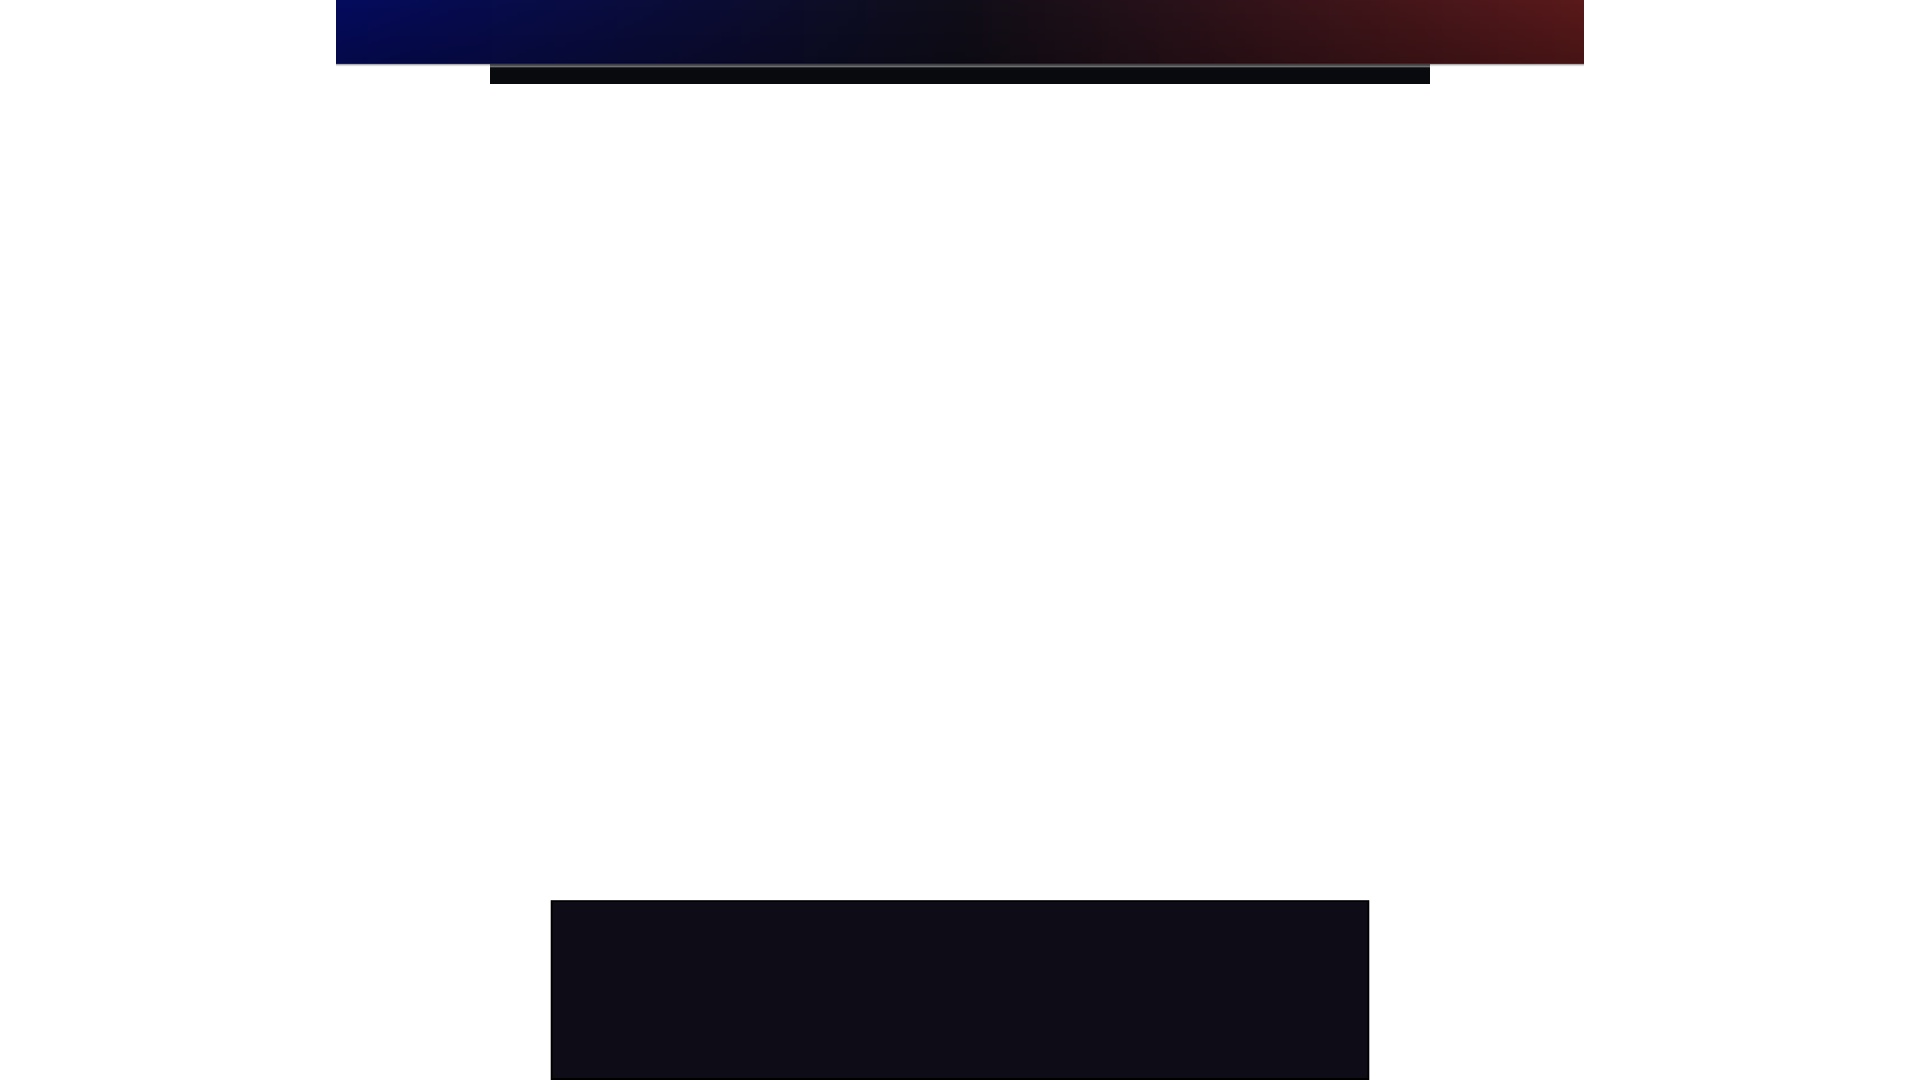
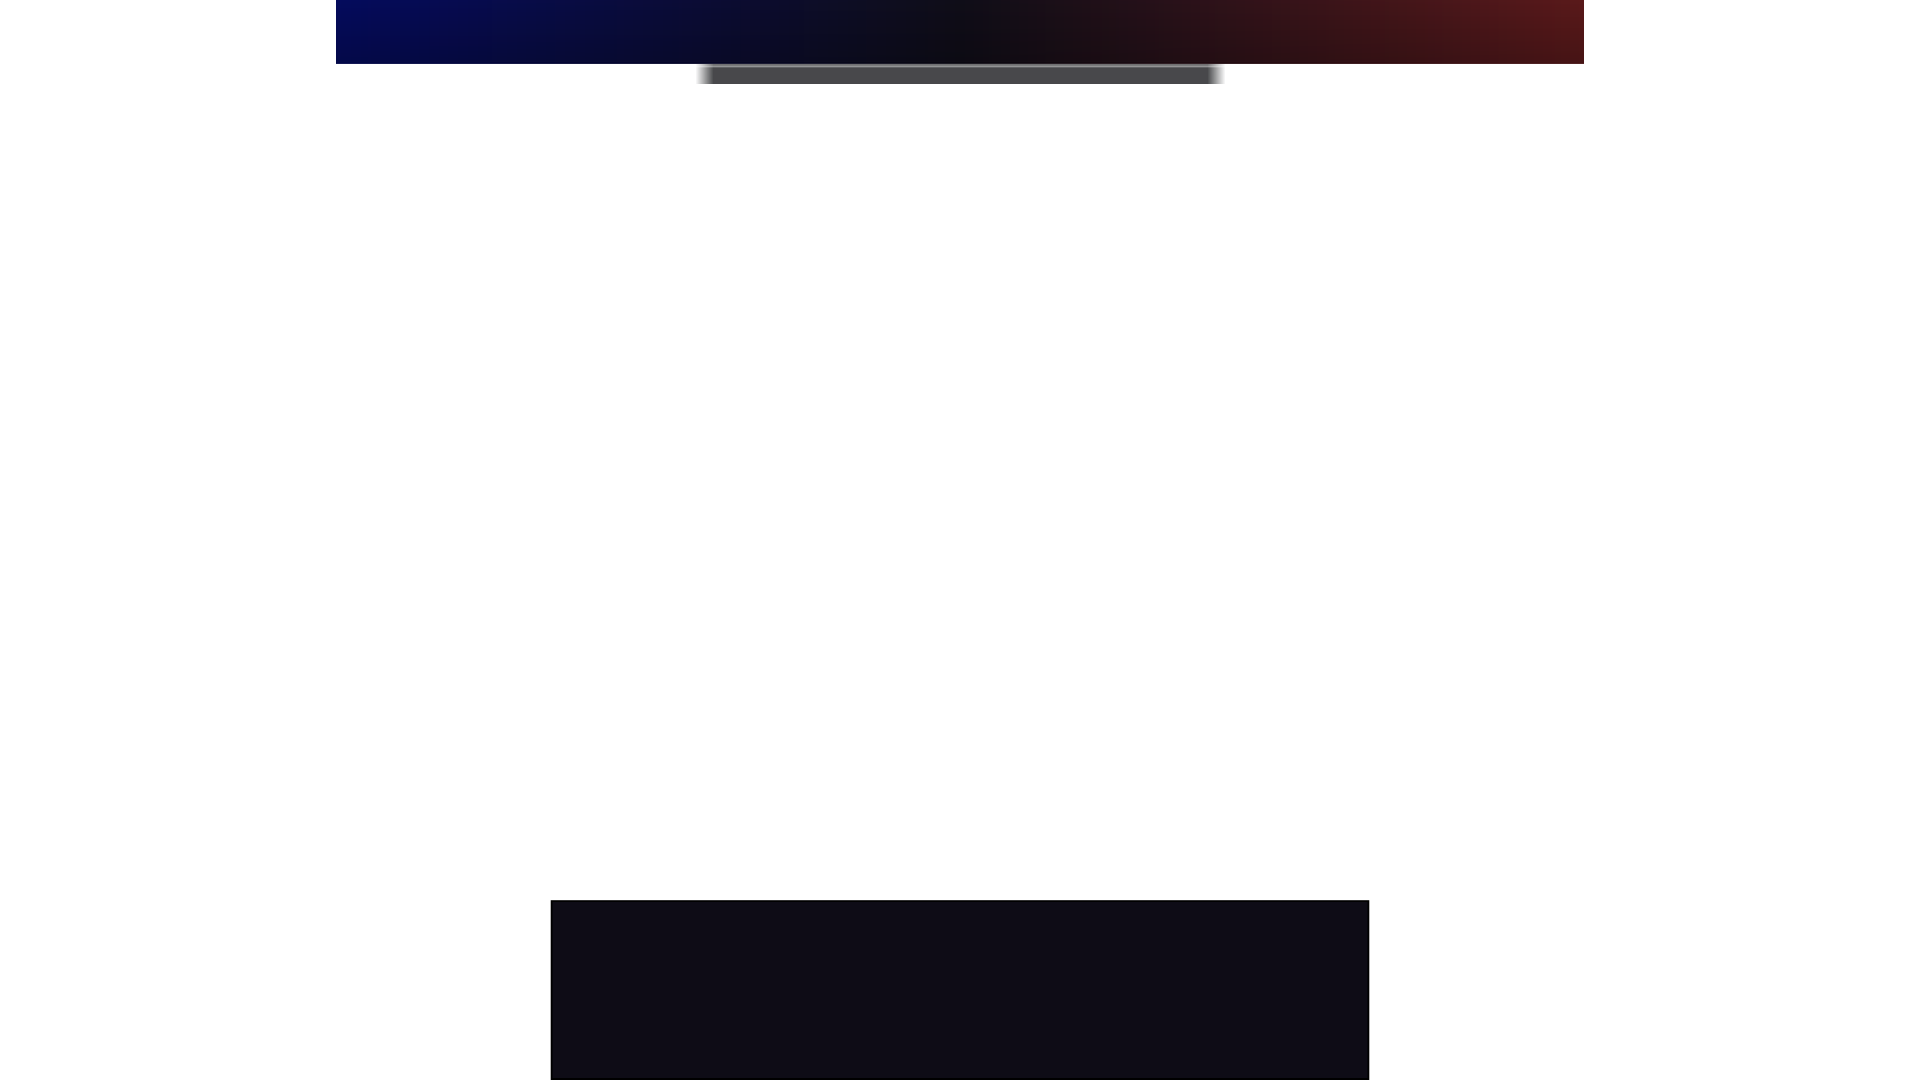
style(highlight): tighten sub bar width, add edge feather, fix legibility
서브바(오브젝트+타이머) 폭 관련 두 라운드 작업:

1) 폭 39.6%도 LCK 대비 여전히 넓다는 피드백 - dragon_offset(드래곤 시작
   전 여백)이 "서브바 half-width의 30%"라는 임의 비율이라 실제 필요한
   여백(타이머 뱃지 폭)보다 훨씬 컸던 게 원인. 공식을 타이머 뱃지 폭
   기준으로 바꾸고 안전 여유도 최소화해 27.6%(695~1225)로 재축소.
   overlay_frame_v2.png도 같이 리크롭 + 좌우 각 18px alpha 190->0 선형
   페더(하드 엣지 제거)로 부드럽게 사라지도록 처리.

2) 반투명화(alpha 190) 후 밝은 게임 배경에서 흰 타이머 텍스트가 잘 안
   보이는 문제를 실측으로 발견 - 타이머 뱃지 알파 0.25->0.5 상향 +
   검정 외곽선(스트로크) 추가로 보강.

워스트케이스(드래곤 4마리+전령/바론/공허유충 전부)를 실제 코드와 동일한
공식으로 계산해 17px 여유로 안 겹침을 확인. EN/KO 회귀 없음.

Changed region(s): [[0.25, 0.0611, 0.75, 0.0917]]

diff --git a/cogs/highlight.py b/cogs/highlight.py
@@ -725,10 +725,11 @@ TEAM_RED_COLOR = "#F14C4C"
 # 🛡 [메인바 골드 색 - 킬 스코어와 구분용] 순백색(킬)보다 살짝 톤 다운된 회색 - 배경
 # 그라데이션 위에서도 충분히 읽히면서 킬의 순백색만큼 강조되지는 않게 한다.
 TOP_GOLD_TEXT_COLOR = "#C9C9C9"
-# 🛡 [타이머 뱃지 - 서브바와 미세하게 다른 톤] 서브바 배경 자체가 이미 어두운 무채색
-# 단일 톤이라, 순수 검정을 낮은 알파로 얹으면 살짝 더 어두워지는 정도로만 구분된다(밝은
-# 색을 쓰면 오히려 튀어서 "은은하게"라는 요청과 어긋남).
-TIMER_BADGE_COLOR = "black@0.25"
+# 🛡 [타이머 뱃지 - 서브바 반투명화 후 알파 보강] 0.25는 서브바 자체가 불투명(255)일
+# 때는 충분했는데, 서브바를 반투명(alpha 190)으로 낮춘 뒤에는 밝은 게임 배경(잔디 등)이
+# 이중으로 비쳐서 흰 타이머 텍스트 가독성이 떨어지는 게 실측으로 확인됨 - 0.5로 올려서
+# 배경이 밝아도 텍스트가 항상 또렷하게 보이도록 보강.
+TIMER_BADGE_COLOR = "black@0.5"
 
 HUD_SLIDE_SEC = 0.4  # 배너 슬라이드업/다운 소요 시간 - PRE_BUILDUP_START_OFFSET_SEC과 같은 템포
 # 🛡 [배너 위치 - 이번에도 하단 전체 영역을 시간대로 나눠 씀] 4단계 재설계로 하단 영역이
@@ -825,10 +826,20 @@ OVERLAY_FRAME_V2_PATH = os.path.join(OVERLAY_DIR, "overlay_frame_v2.png")
 # 비율값과 이미지가 반드시 같이 바뀌어야 그림자 띠 버그가 재발하지 않는다).
 TOP_MAIN_BAR_HEIGHT_RATIO = 64 / 1080
 TOP_SUB_BAR_HEIGHT_RATIO = 20 / 1080
-TOP_SUB_BAR_X_RATIO = (490 / 1920, 1429 / 1920)
+# 🛡 [서브바 폭 재축소 - 39.6%도 여전히 넓다는 재피드백] 처음엔 안전 여유를 넉넉히 두고
+# 39.6%(580~1340)로 줄였는데, LCK 원본 대비 여전히 넓다는 피드백으로 안전 여유를 최소로
+# 줄여 재계산했다 - dragon_offset(드래곤 시작 전 여백)이 예전엔 "서브바 half-width의
+# 30%"라는 임의 비율이라 실제 필요치(타이머 뱃지 폭)보다 훨씬 컸던 게 원인 중 하나였음을
+# 발견 - 아래 dragon_offset 계산 자체를 타이머 뱃지 폭 기준으로 바꿨다. 마지막 오브젝트의
+# 숫자 폭 여유도 "최대 4자리 가정" 대신 실제 표시 값(보통 1~2자리) 기준으로 줄였다.
+# 재계산 결과 필요 half-width ≈261px -> 27.6%(695~1225/1920). overlay_frame_v2.png도
+# 이 범위에 맞춰 다시 리크롭 + 좌우 각 18px alpha 190->0 선형 페더 처리(하드 엣지 대신
+# 부드럽게 사라지는 형태) - 코드 좌표와 이미지가 어긋나면 그림자 띠 버그와 같은 종류의
+# 문제가 재발한다.
+TOP_SUB_BAR_X_RATIO = (695 / 1920, 1225 / 1920)
 # 🛡 [메인바 폭 65%로 축소 - 서브바와 완전히 독립된 별개 변수] 메인바를 화면 전체 폭이
 # 아니라 중앙 65%짜리 좁은 바로 좁힌다. 서브바는 이미 자기만의 폭(TOP_SUB_BAR_X_RATIO,
-# 48.8%)을 쓰고 있고 이번 변경과 전혀 무관 - bar_x0/x1/bar_mid_x/bar_half_w는 렌더
+# 27.6%)을 쓰고 있고 이번 변경과 전혀 무관 - bar_x0/x1/bar_mid_x/bar_half_w는 렌더
 # 함수 안에서 이 비율로 새로 계산하는 독립 변수이고, 서브바가 쓰는 mid_x/half_w는
 # 그대로 final_width 기준을 유지한다(지난 panel_mid_x 분리와 동일한 패턴).
 MAIN_BAR_WIDTH_RATIO = 0.65
@@ -2033,7 +2044,15 @@ class KyvoHighlight(KyvoBaseCog):
             # 비슷하게 보정). 오브젝트 숫자도 같은 폰트/포뮬러를 쓰므로 동일 보정 적용.
             TIMER_VALIGN_CORRECTION_RATIO = 0.087
             sub_text_y_expr = f"{top_main_h}+({top_sub_h}-text_h)/2-{top_sub_h * TIMER_VALIGN_CORRECTION_RATIO:.2f}"
-            dragon_offset = (sub_x1 - sub_x0) / 2 * 0.3
+            # 🛡 [dragon_offset - 실제 필요치(타이머 뱃지 폭) 기준으로 변경] 예전엔
+            # "서브바 half-width의 30%"라는 임의 비율이라, 서브바가 넓을 때는 실제 필요한
+            # 여백(타이머 뱃지와 안 겹칠 정도)보다 훨씬 컸다 - 서브바를 좁힐 때 이 여유가
+            # 그대로 발목을 잡는 구조였음. 타이머 뱃지 폭(아래에서 재계산하는 것과 동일
+            # 공식)의 절반 + 최소 여백(4px)으로 바꿔서, 서브바 폭과 무관하게 딱 필요한
+            # 만큼만 여백을 둔다.
+            _timer_badge_pad_x_for_offset = max(4, int(round(sub_font_size * 0.5)))
+            _timer_badge_w_for_offset = int(round(sub_font_size * 3.0)) + 2 * _timer_badge_pad_x_for_offset
+            dragon_offset = _timer_badge_w_for_offset / 2 + 4
 
             gm = scoreboard["game_time_ms"] // 1000
             # 🛡 콜론(:)은 필터 옵션 구분자와 충돌해서 홑따옴표로 감싸도 그대로 두면
@@ -2148,11 +2167,18 @@ class KyvoHighlight(KyvoBaseCog):
             timer_badge_h = int(round(top_sub_h * 0.82))
             timer_badge_x = mid_x - timer_badge_w / 2
             timer_badge_y = top_main_h + (top_sub_h - timer_badge_h) / 2
+            # 🛡 [타이머 검정 외곽선 - 서브바 반투명화 대응] 배지 알파를 올려도 밝은 게임
+            # 배경(잔디 등) 위에서는 흰 글자가 묻히는 게 실측으로 확인됨 - 배경 박스만으로는
+            # 임의의 비디오 배경에 대응하기 부족해서, 방송 그래픽에서 흔히 쓰는 검정 스트로크
+            # 외곽선을 직접 추가한다(top_text_style은 GRID_TEXT_BORDER_W=0이라 테두리가
+            # 없어서 이 텍스트만 로컬로 별도 지정).
+            timer_border_w = max(1, int(round(sub_font_size * 0.15)))
             text_chain += (
                 f";[{label}]drawbox=x={timer_badge_x:.2f}:y={timer_badge_y:.2f}:"
                 f"w={timer_badge_w}:h={timer_badge_h}:color={TIMER_BADGE_COLOR}:t=fill[vtimerbadge]"
                 f";[vtimerbadge]drawtext=fontfile='{font_kr}':text='{time_text}':fontsize={sub_font_size}:"
-                f"fontcolor=white:{top_text_style}:x='{int(round(mid_x))}-text_w/2':y='{sub_text_y_expr}'[vs3]"
+                f"fontcolor=white:bordercolor=black:borderw={timer_border_w}:"
+                f"x='{int(round(mid_x))}-text_w/2':y='{sub_text_y_expr}'[vs3]"
             )
             label = "vs3"
 
